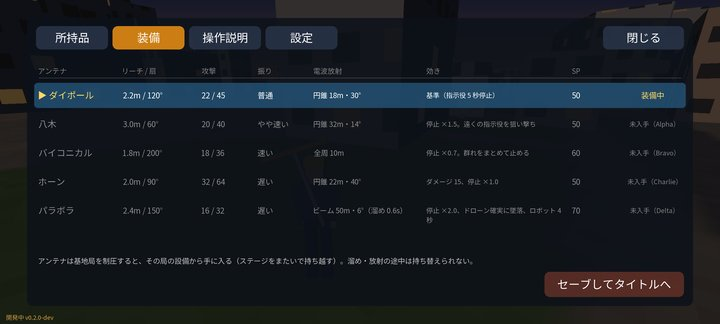
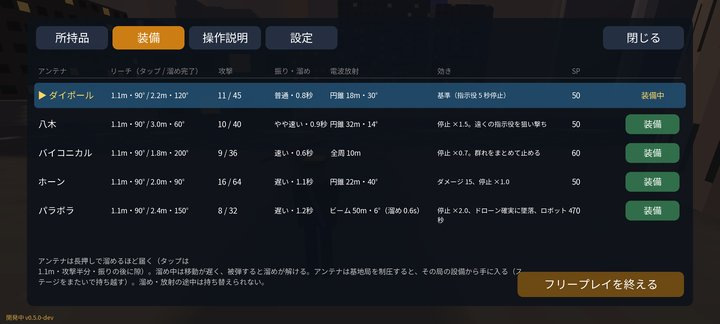
Phonetic Hound 0.5.0-dev (in development)

diff --git a/phonetic_hound/README.md b/phonetic_hound/README.md
@@ -10,13 +10,13 @@
 
 ## ダウンロード
 
-### [APK をダウンロード（v0.4.0-dev・10.1 MB）](https://github.com/kijitora-no-hito/android-apps/releases/download/phonetichound-v0.4.0-dev/phonetichound-0.4.0-dev-release.apk)
+### [APK をダウンロード（v0.5.0-dev・10.2 MB）](https://github.com/kijitora-no-hito/android-apps/releases/download/phonetichound-v0.5.0-dev/phonetichound-0.5.0-dev-release.apk)
 
 | 項目 | 内容 |
 | --- | --- |
-| バージョン | 0.4.0-dev（2026-09-26・開発中） |
-| ファイル | `phonetichound-0.4.0-dev-release.apk`（10,632,368 バイト） |
[1 lines of base64/hex data omitted]
+| バージョン | 0.5.0-dev（2026-09-26・開発中） |
+| ファイル | `phonetichound-0.5.0-dev-release.apk`（10,649,496 バイト） |
[1 lines of base64/hex data omitted]
 | 対応 Android | 7.0 以上（横画面） |
 | 価格 | 無料・広告なし・アプリ内課金なし・アカウント登録なし |
 
@@ -27,19 +27,20 @@
 ## どんなゲーム？
 
 - 街の携帯基地局（Alpha・Bravo・Charlie…）から出る電波がゾンビを操っています。ゾンビは電波の届く範囲でしか動けません。
-- スマホを持った**指示役のゾンビ**を倒すと、スマホが手に入ります。スマホには、その基地局の**信号強度と到来方向（AoA）**が出ます。
-  ビルの壁で反射した電波は壁の方から届くので、矢印をうのみにせず、場所を変えて確かめながら基地局を探します。
+- スマホを持った**指示役のゾンビ**を倒すと、スマホが手に入ります。スマホには、その基地局の**信号の強さ**が出ます（強くなった ↑ / 弱くなった ↓）。
+  信号が強くなる方へ歩いて基地局を探します。
+- 各基地局のエリアには**電波伝搬シミュレータ**が 1 台ずつ置いてあります。使うと、その局の位置と**カバレッジマップ**が地図に出て、
+  スマホに電波の**到来方向（AoA）**の矢印が出るようになります。ビルの壁で反射した電波は壁の方から届くので、矢印をうのみにしないこと。
 - スマホと同じ基地局に繋がっているゾンビは**指揮**できます（護衛・攻撃・待機）。
 - 小さな基地局の設備盤で**停波**すると制圧。制圧した基地局は休憩地点・復活地点になります。
   小基地局をすべて制圧すると、巨大基地局のシールドが消えます。巨大基地局を止めればステージクリアです。
-- 攻撃はパンチ、アンテナ振り（長押しで溜め）、アンテナからの電波放射（指示役のスマホを一時的に止める）。
+- 攻撃はパンチ、アンテナ振り（**溜めるほどリーチと威力が伸びる**。溜めずに振ると短く弱い）、アンテナからの電波放射（指示役のスマホを一時的に止める）。
 - アンテナは 5 種類（ダイポール・八木・バイコニカル・ホーン・パラボラ）。基地局を制圧すると手に入り、
   リーチ・攻撃力・電波放射の形（細く遠くまで／自分の周り全部／鉛筆のようなビーム など）がそれぞれ違います。
-- マップは歩いた場所だけが見えます。ピンを置けるほか、まれに手に入る**電波伝搬シミュレータ**で、
-  地図上の 3 か所の信号強度と到来方向を調べられます。
+- マップは歩いた場所だけが見えます。ピンも置けます。
 - 街並みは実在の地形と建物のデータから作っています。電波は建物での反射・回折まで計算しています。
 
-## この版でできること（0.4.0-dev）
+## この版でできること（0.5.0-dev）
 
 - **全 6 ステージ**を、最初から巨大基地局の停波まで遊べます。開発中の版では、どのステージも最初から選べます。
 
@@ -60,6 +61,13 @@
   （全アンテナ所持。ゲーム中の DEBUG ボタンで無敵・敵なし・野良ゾンビの量・局へワープ・即時制圧など）。
 
 これから: 難易度・バランスの調整、見た目の改善。
+
+### 0.4.0-dev からの変更
+
+- **電波伝搬シミュレータを作り直し**: 各基地局のエリアに 1 台ずつ置いてあり、使うとその局の位置・カバレッジマップ・到来方向（AoA）が分かります。
+  スマホだけでは信号の強さ（↑↓ 付き）しか分かりません。
+- **アンテナは溜めないと射程が出ない**ように調整（溜めずに振るとリーチ 1.1m・威力半分）。パンチの 3 段目で敵がよろめきます。
+- 練馬のチュートリアルを新しいシミュレータの流れに合わせて直しました。
 
 ### 0.3.0-dev からの変更
 
@@ -88,6 +96,14 @@
 <td align="center"><img src="images/02.jpg" width="340" alt="神城の田んぼと森"><br>神城（白馬村）の田んぼと森</td>
 </tr>
 <tr>
+<td align="center"><img src="images/19.jpg" width="340" alt="スマホの信号レベル"><br>スマホは信号の強さ（↑↓）だけ</td>
+<td align="center"><img src="images/20.jpg" width="340" alt="AoA"><br>シミュレータで解析した局は到来方向が出る</td>
+</tr>
+<tr>
+<td align="center"><img src="images/21.jpg" width="340" alt="溜め"><br>アンテナを溜めて振る</td>
+<td align="center"><img src="images/07.jpg" width="340" alt="カバレッジ"><br>カバレッジマップ</td>
+</tr>
+<tr>
 <td align="center"><img src="images/16.jpg" width="340" alt="野良ゾンビ"><br>野良ゾンビが街中から寄ってくる</td>
 <td align="center"><img src="images/17.jpg" width="340" alt="被弾方向の表示"><br>撃たれた方向を赤い弧で表示</td>
 </tr>
@@ -113,7 +129,7 @@
 </tr>
 <tr>
 <td align="center"><img src="images/06.jpg" width="340" alt="バイコニカルの電波放射"><br>バイコニカルは周り全部に放射</td>
-<td align="center"><img src="images/07.jpg" width="340" alt="電波伝搬シミュレータ"><br>マップと電波伝搬シミュレータ</td>
+<td align="center"><img src="images/22.jpg" width="340" alt="地面のシミュレータ"><br>各局のエリアに置いてあるシミュレータ（緑の光）</td>
 </tr>
 <tr>
 <td align="center"><img src="images/08.jpg" width="340" alt="停波"><br>基地局を停波中</td>
